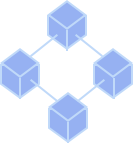
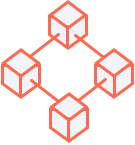
Redesign last block component (#126)
- Update CSS for last block component

- Update image for last block component

Resolves: #126

diff --git a/src/static/css/style.css b/src/static/css/style.css
@@ -74,15 +74,9 @@ body{
 	height: 110px;
 }
 .last-block{
-	background: rgba(247,92,74,1);
-	background: -moz-linear-gradient(-45deg, rgba(247,92,74,1) 0%, rgba(245,129,104,1) 100%);
-	background: -webkit-gradient(left top, right bottom, color-stop(0%, rgba(247,92,74,1)), color-stop(100%, rgba(245,129,104,1)));
-	background: -webkit-linear-gradient(-45deg, rgba(247,92,74,1) 0%, rgba(245,129,104,1) 100%);
-	background: -o-linear-gradient(-45deg, rgba(247,92,74,1) 0%, rgba(245,129,104,1) 100%);
-	background: -ms-linear-gradient(-45deg, rgba(247,92,74,1) 0%, rgba(245,129,104,1) 100%);
-	background: linear-gradient(135deg, rgba(247,92,74,1) 0%, rgba(245,129,104,1) 100%);
-	filter: progid:DXImageTransform.Microsoft.gradient( startColorstr='#1e62e0', endColorstr='#1fa5ed', GradientType=1 );
-	}
+	border: 1px solid #f06f56;
+  color: #363840;
+}
 .rpc-server{
 	background: rgba(70,60,215,1);
 	background: -moz-linear-gradient(-45deg, rgba(70,60,215,1) 0%, rgba(74,100,229,1) 100%);
@@ -129,7 +123,7 @@ body{
 	width: 80%;
 }
 .last-block img{
-	margin-top: 20px;
+	margin-top: 14px;
 	width: 100%;
 }
 .rpc-server img{

diff --git a/src/styles/style.css b/src/styles/style.css
@@ -74,15 +74,9 @@ body{
 	height: 110px;
 }
 .last-block{
-	background: rgba(247,92,74,1);
-	background: -moz-linear-gradient(-45deg, rgba(247,92,74,1) 0%, rgba(245,129,104,1) 100%);
-	background: -webkit-gradient(left top, right bottom, color-stop(0%, rgba(247,92,74,1)), color-stop(100%, rgba(245,129,104,1)));
-	background: -webkit-linear-gradient(-45deg, rgba(247,92,74,1) 0%, rgba(245,129,104,1) 100%);
-	background: -o-linear-gradient(-45deg, rgba(247,92,74,1) 0%, rgba(245,129,104,1) 100%);
-	background: -ms-linear-gradient(-45deg, rgba(247,92,74,1) 0%, rgba(245,129,104,1) 100%);
-	background: linear-gradient(135deg, rgba(247,92,74,1) 0%, rgba(245,129,104,1) 100%);
-	filter: progid:DXImageTransform.Microsoft.gradient( startColorstr='#1e62e0', endColorstr='#1fa5ed', GradientType=1 );
-	}
+	border: 1px solid #f06f56;
+  color: #363840;
+}
 .rpc-server{
 	background: rgba(70,60,215,1);
 	background: -moz-linear-gradient(-45deg, rgba(70,60,215,1) 0%, rgba(74,100,229,1) 100%);
@@ -125,7 +119,7 @@ body{
 	width: 80%;
 }
 .last-block img{
-	margin-top: 20px;
+	margin-top: 14px;
 	width: 100%;
 }
 .rpc-server img{
